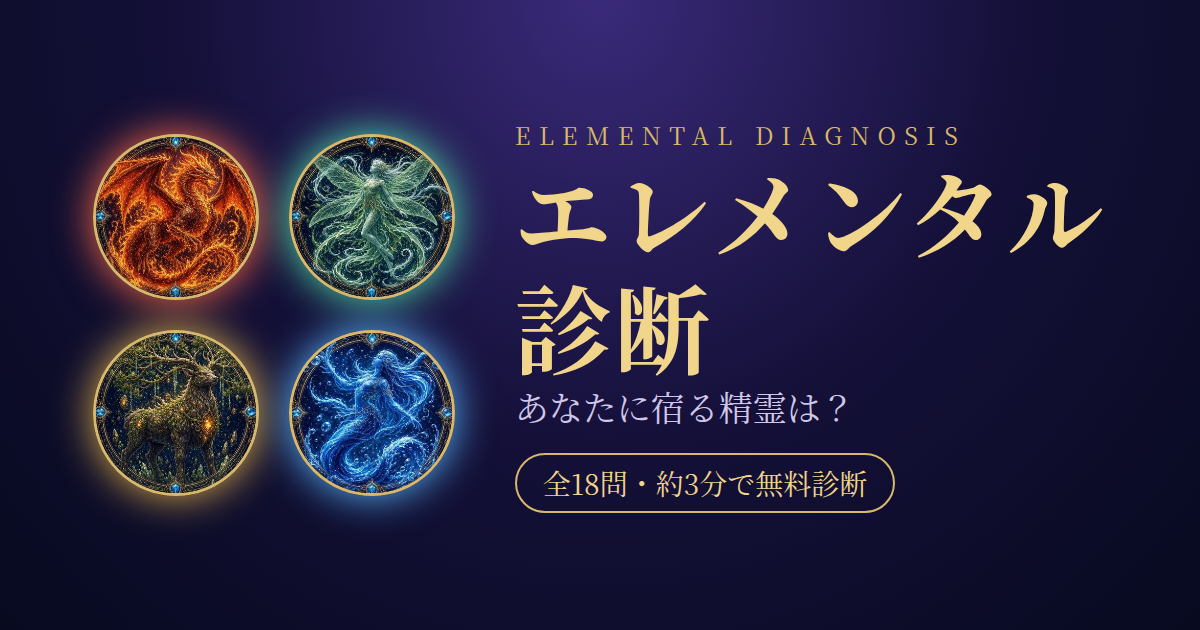
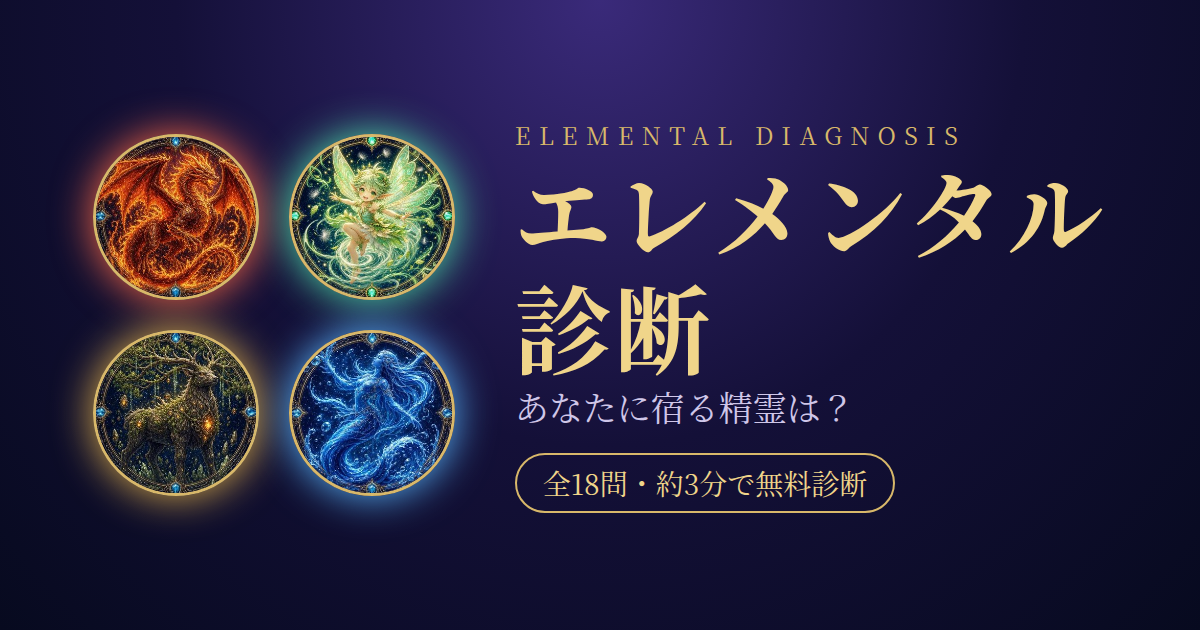
シルフを妖精に変更

Changed region(s): [[0.2467, 0.2111, 0.4008, 0.4825]]

diff --git a/sw.js b/sw.js
@@ -1,4 +1,4 @@
-const C='elemental-v3';const F=['./','index.html','manifest.json','img/icon-192.png','img/icon-512.png'];
+const C='elemental-v4';const F=['./','index.html','manifest.json','img/icon-192.png','img/icon-512.png'];
 self.addEventListener('install',e=>{e.waitUntil(caches.open(C).then(c=>c.addAll(F)));self.skipWaiting()});
 self.addEventListener('activate',e=>{e.waitUntil(caches.keys().then(ks=>Promise.all(ks.filter(k=>k!==C).map(k=>caches.delete(k)))));self.clients.claim()});
 self.addEventListener('fetch',e=>{if(e.request.method!=='GET')return;e.respondWith(fetch(e.request).then(r=>{const cp=r.clone();caches.open(C).then(c=>c.put(e.request,cp));return r}).catch(()=>caches.match(e.request).then(r=>r||caches.match('index.html'))))});
